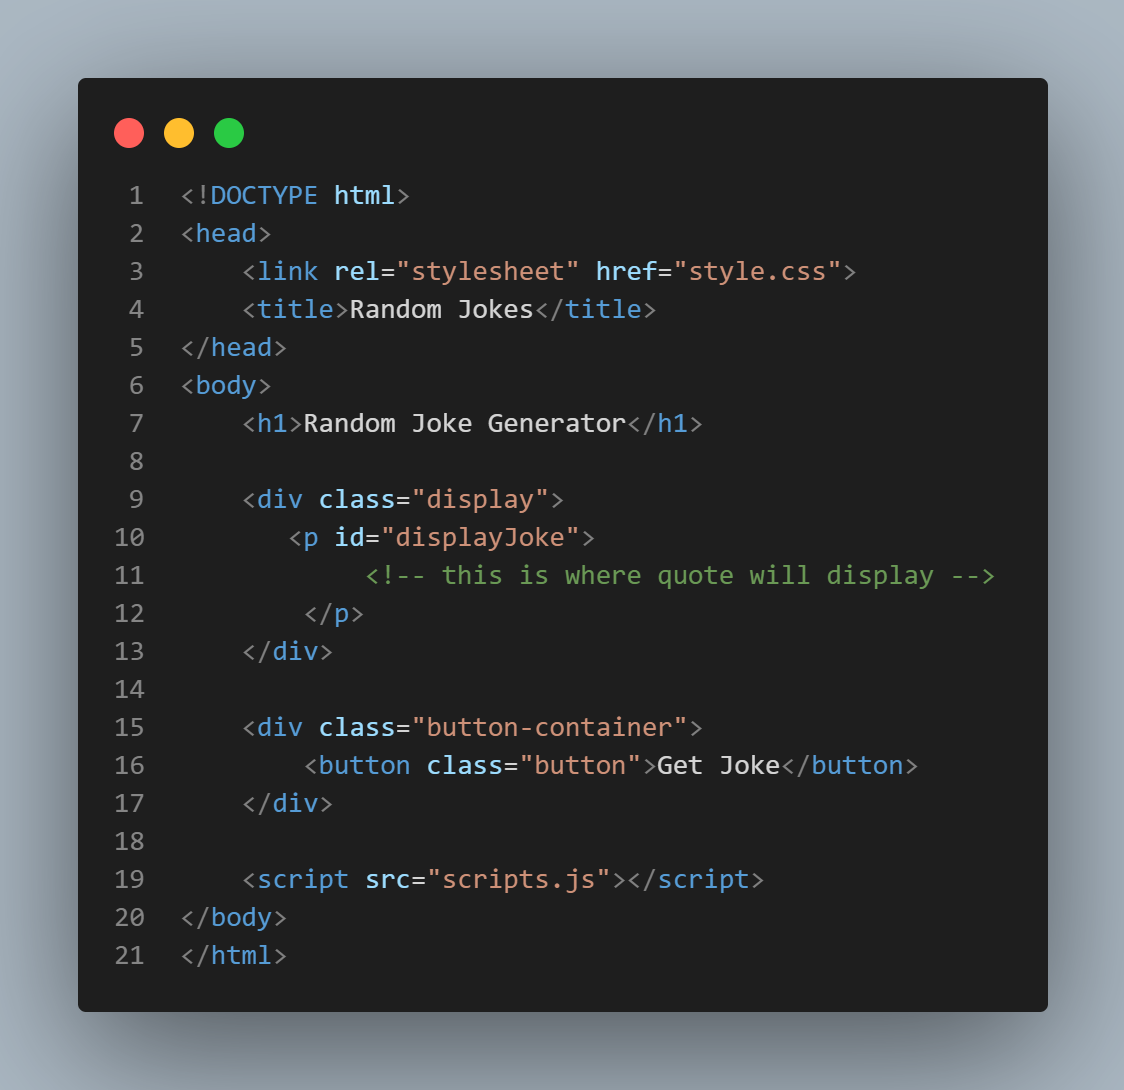
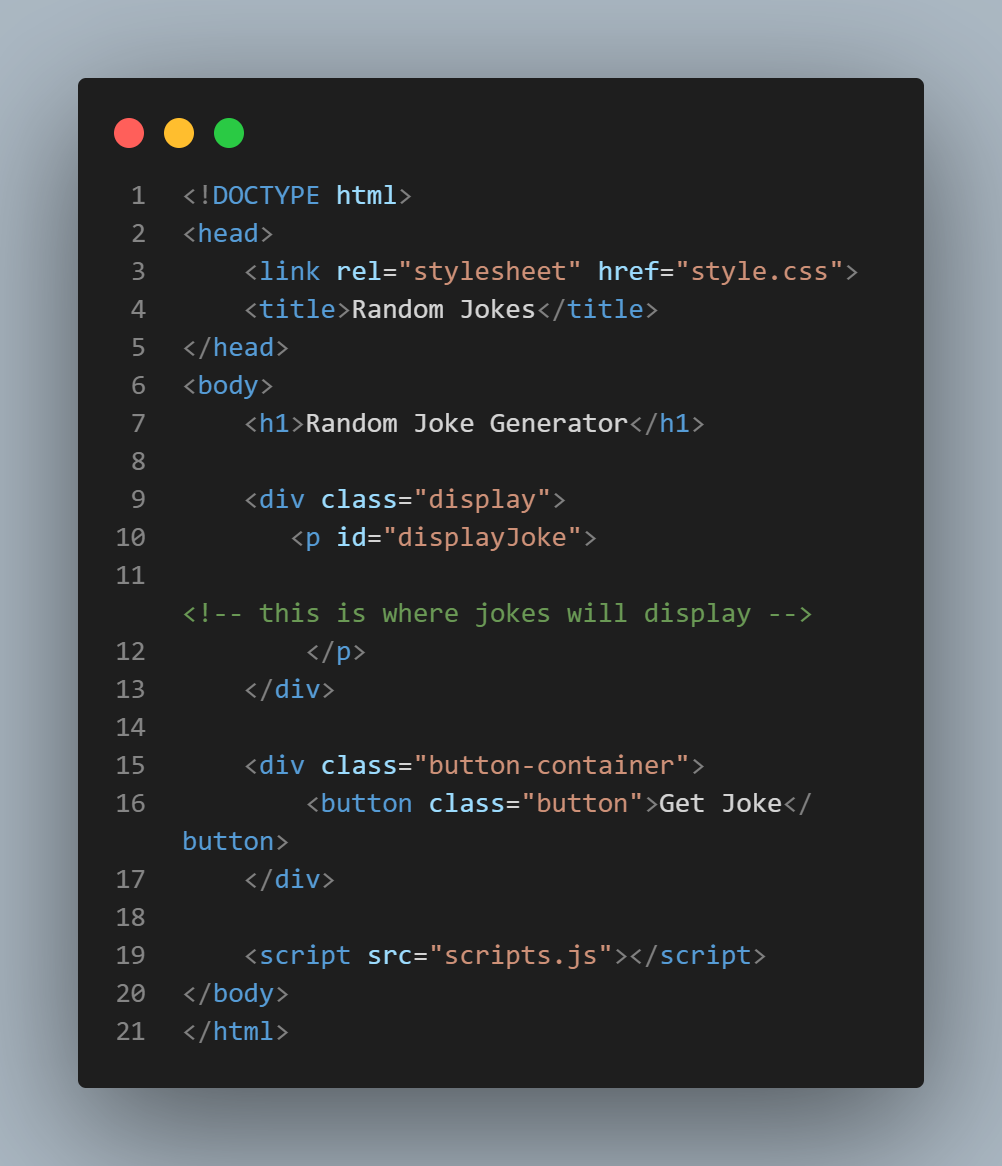
updates

Changed region(s): [[0.0619, 0.0624, 0.9591, 0.9358]]

diff --git a/scripts.js b/scripts.js
@@ -3,7 +3,6 @@ const onClick = document.querySelector(".button")
 const jokes = [
     "What rock group has four men that don't sing? Mount Rushmore.",
     "When I was a kid, my mother told me I could be anyone I wanted to be. Turns out, identity theft is a crime.",
-    "A guy goes to his doctor because he can see into the future. The doctor asks him,\"How long have you suffered from that condition?\" The guy tells him, \"Since next Monday.\"",
     "What do sprinters eat before a race? Nothing, they fast!",
     "What concert costs just 45 cents? 50 Cent featuring Nickelback!",
     "What do you call a mac 'n' cheese that gets all up in your face? Too close for comfort food!",

diff --git a/index.html b/index.html
@@ -8,7 +8,7 @@
 
     <div class="display">
        <p id="displayJoke">
-            <!-- this is where quote will display -->
+            <!-- this is where jokes will display -->
         </p>
     </div>
 
